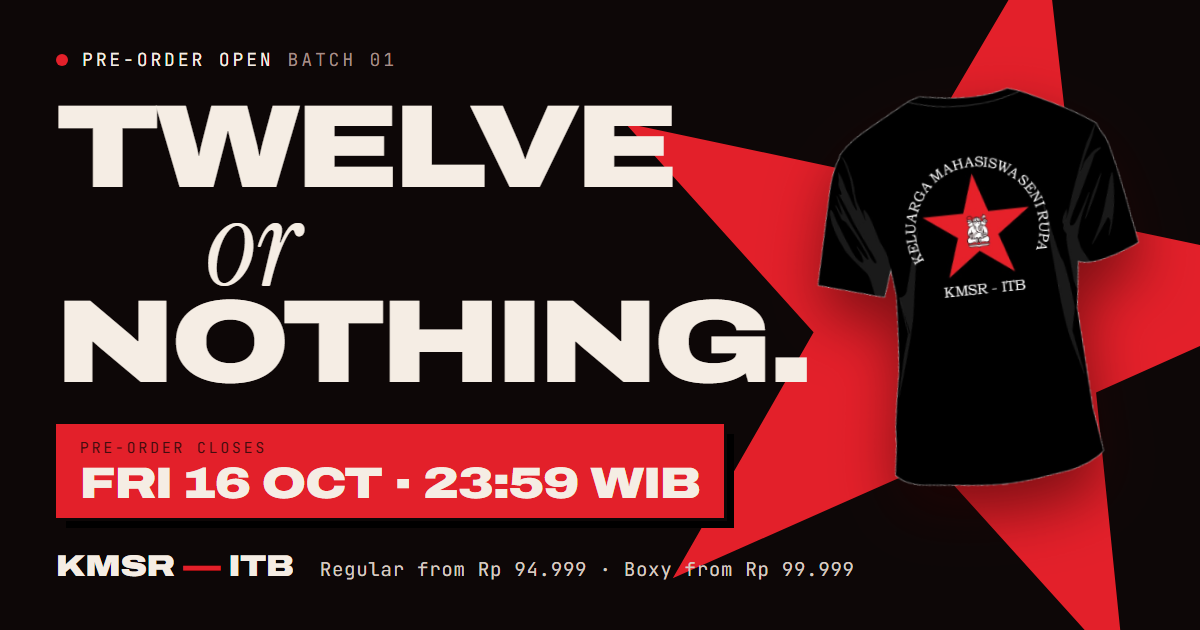
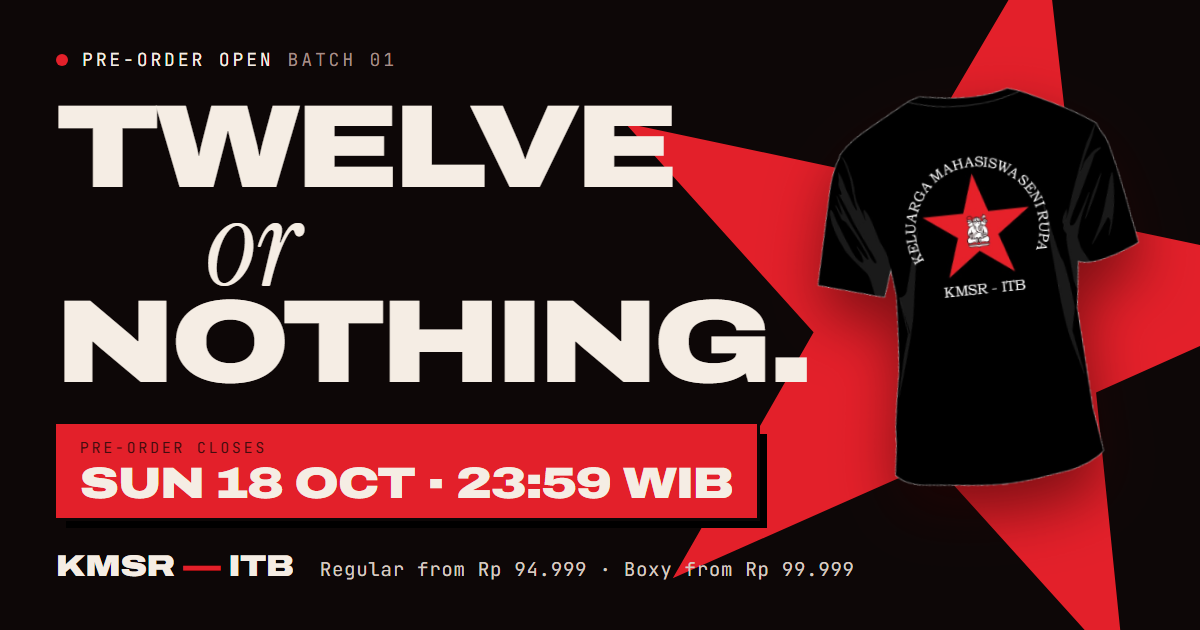
Extend pre-order to Sun 18 Oct 23:59 WIB and update the link preview

Changed region(s): [[0.0617, 0.6635, 0.6475, 0.8444]]

diff --git a/index.html b/index.html
@@ -11,11 +11,11 @@
   <meta property="og:url" content="https://kaos-kmsr-preorder.vercel.app/">
   <meta property="og:site_name" content="Kaos KMSR">
   <meta property="og:title" content="Kaos KMSR — Pre-Order">
-  <meta property="og:description" content="Twelve or nothing. Pre-order the KMSR ITB Regular or Boxy tee before Fri 16 Oct, 23:59 WIB.">
-  <meta property="og:image" content="https://kaos-kmsr-preorder.vercel.app/assets/og.png">
+  <meta property="og:description" content="Twelve or nothing. Pre-order the KMSR ITB Regular or Boxy tee before Sun 18 Oct, 23:59 WIB.">
+  <meta property="og:image" content="https://kaos-kmsr-preorder.vercel.app/assets/og.png?v=2">
   <meta property="og:image:width" content="1200">
   <meta property="og:image:height" content="630">
-  <meta property="og:image:alt" content="Twelve or nothing — Kaos KMSR ITB pre-order, closes Fri 16 Oct 23:59 WIB">
+  <meta property="og:image:alt" content="Twelve or nothing — Kaos KMSR ITB pre-order, closes Sun 18 Oct 23:59 WIB">
   <meta name="twitter:card" content="summary_large_image">
   <link rel="icon" href="assets/favicon.svg" type="image/svg+xml">
   <link rel="preconnect" href="https://fonts.googleapis.com">

diff --git a/config.js b/config.js
@@ -40,7 +40,7 @@ window.KMSR_CONFIG = {
       shortName: "Regular",
       fit: "Regular fit · XS–4XL · short or long sleeve",
       price: 94999, // base price for S–XL
-      deadline: "2026-10-17T16:32:00+07:00",
+      deadline: "2026-10-18T23:59:00+07:00",
       description:
         "The everyday cut. Chest logo up front, the full KMSR star across the back. Made only if the batch fills.",
       specs: [
@@ -79,7 +79,7 @@ window.KMSR_CONFIG = {
       shortName: "Boxy",
       fit: "Oversize boxy · XS–XL",
       price: 99999, // base price for S–XL
-      deadline: "2026-10-17T16:32:00+07:00",
+      deadline: "2026-10-18T23:59:00+07:00",
       description:
         "Wide, cropped, dropped shoulders. Same print, heavier attitude. Made only if the batch fills.",
       specs: [
